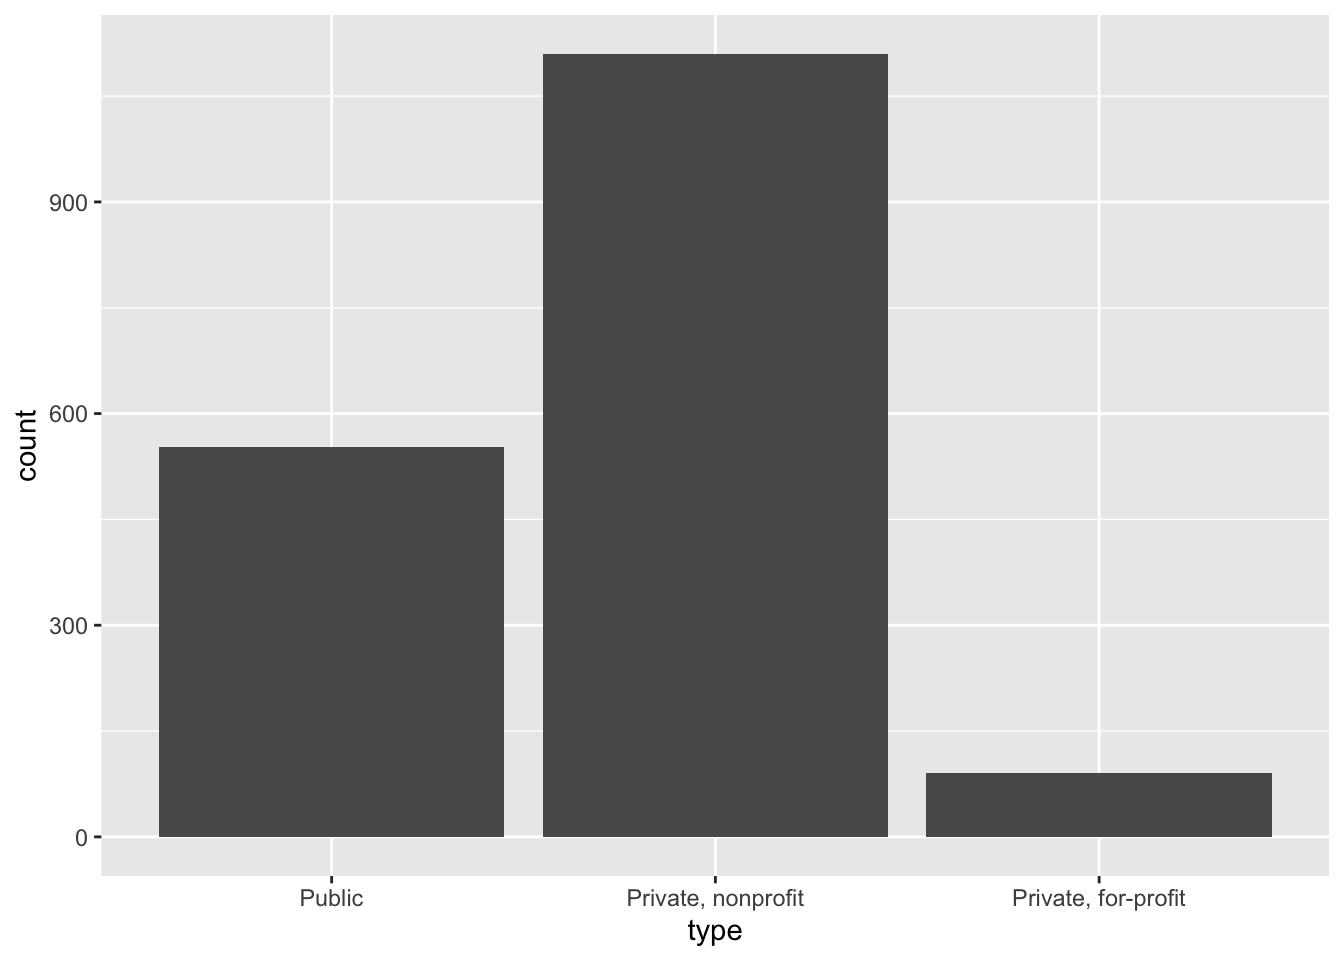
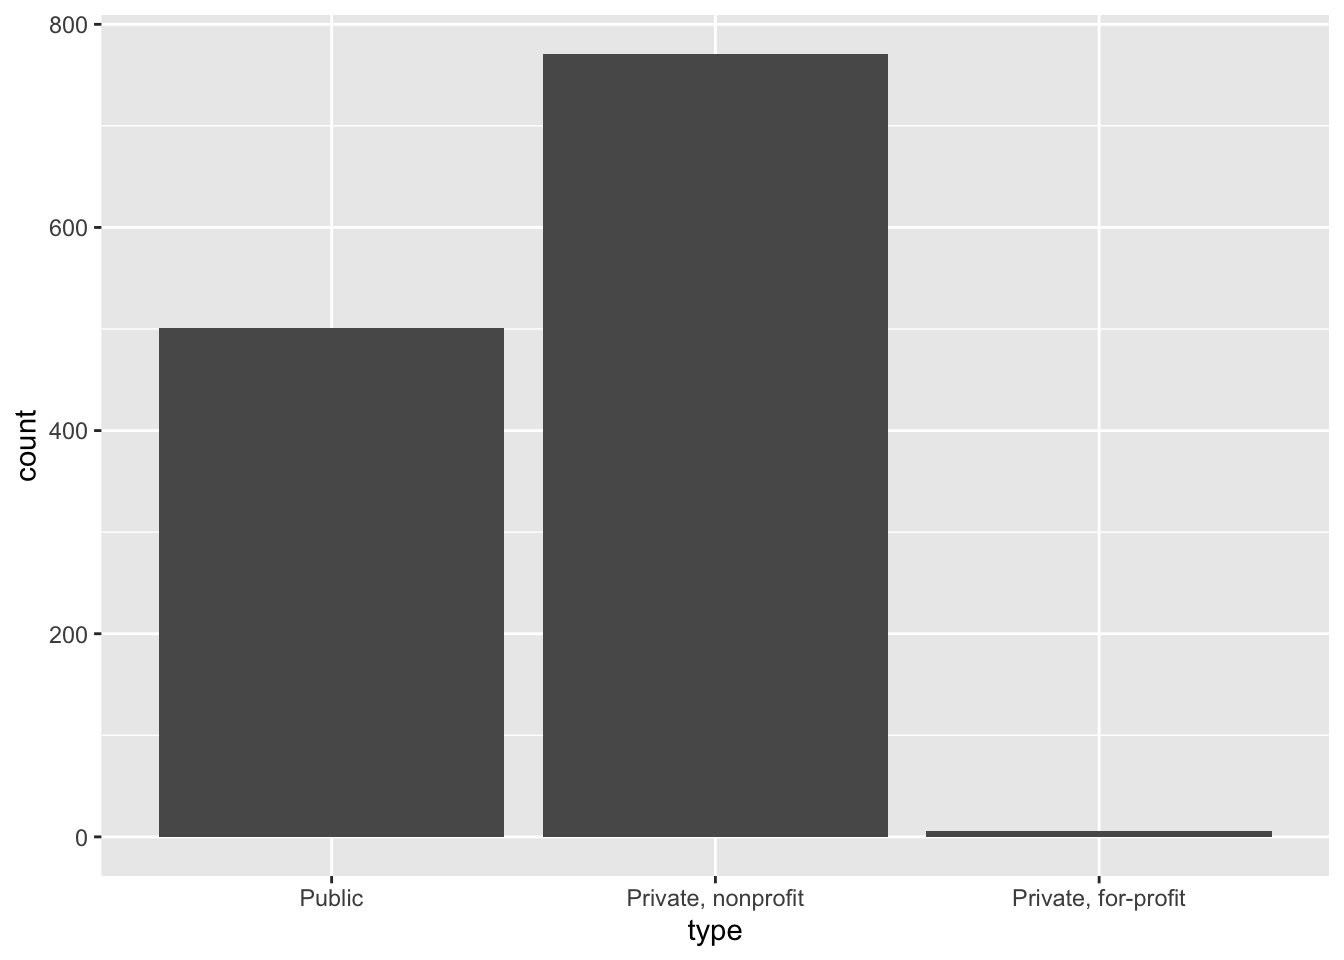
Clarify role of NA values for average SAT exercise in EDA module. Close #306

diff --git a/content/notes/exploratory-data-analysis-practice/index.md b/content/notes/exploratory-data-analysis-practice/index.md
@@ -135,16 +135,31 @@ Now we can see the averages for each college type are based on widely varying sa
 
 
 ```r
-ggplot(
-  data = scorecard,
-  mapping = aes(x = type)
-) +
+# observations with non-NA SAT averages
+scorecard %>%
+  drop_na(satavg) %>%
+  ggplot(
+    mapping = aes(x = type)
+  ) +
   geom_bar()
 ```
 
 <img src="{{< blogdown/postref >}}index_files/figure-html/sat-bar-1.png" width="672" />
 
-There are far fewer private, for-profit colleges than the other categories. A boxplot alone would not reveal this detail, which could be important in future analysis.
+```r
+# what proportion of observations have NA for satavg?
+scorecard %>%
+  group_by(type) %>%
+  summarize(prop = sum(is.na(satavg)) / n()) %>%
+  ggplot(
+    mapping = aes(x = type, y = prop)
+  ) +
+  geom_col()
+```
+
+<img src="{{< blogdown/postref >}}index_files/figure-html/sat-bar-2.png" width="672" />
+
+There are far fewer private, for-profit colleges than the other categories. Furthermore, private, for-profit colleges disproportionately fail to report average SAT scores compared to the other categories (likely these schools do not require SAT scores from applicants). A boxplot alone would not reveal this detail, which could be important in future analysis.
 
 {{< /spoiler >}}
 
@@ -399,28 +414,28 @@ devtools::session_info()
 ##  collate  en_US.UTF-8                 
 ##  ctype    en_US.UTF-8                 
 ##  tz       America/Chicago             
-##  date     2021-09-01                  
+##  date     2022-01-06                  
 ## 
 ## ─ Packages ───────────────────────────────────────────────────────────────────
 ##  package     * version date       lib source        
 ##  assertthat    0.2.1   2019-03-21 [1] CRAN (R 4.1.0)
 ##  backports     1.2.1   2020-12-09 [1] CRAN (R 4.1.0)
-##  blogdown      1.4     2021-07-23 [1] CRAN (R 4.1.0)
+##  blogdown      1.7     2021-12-19 [1] CRAN (R 4.1.0)
 ##  bookdown      0.23    2021-08-13 [1] CRAN (R 4.1.0)
 ##  broom         0.7.9   2021-07-27 [1] CRAN (R 4.1.0)
-##  bslib         0.2.5.1 2021-05-18 [1] CRAN (R 4.1.0)
+##  bslib         0.3.1   2021-10-06 [1] CRAN (R 4.1.0)
 ##  cachem        1.0.6   2021-08-19 [1] CRAN (R 4.1.0)
 ##  callr         3.7.0   2021-04-20 [1] CRAN (R 4.1.0)
 ##  cellranger    1.1.0   2016-07-27 [1] CRAN (R 4.1.0)
-##  cli           3.0.1   2021-07-17 [1] CRAN (R 4.1.0)
+##  cli           3.1.0   2021-10-27 [1] CRAN (R 4.1.0)
 ##  codetools     0.2-18  2020-11-04 [1] CRAN (R 4.1.0)
 ##  colorspace    2.0-2   2021-06-24 [1] CRAN (R 4.1.0)
-##  crayon        1.4.1   2021-02-08 [1] CRAN (R 4.1.0)
+##  crayon        1.4.2   2021-10-29 [1] CRAN (R 4.1.0)
 ##  DBI           1.1.1   2021-01-15 [1] CRAN (R 4.1.0)
 ##  dbplyr        2.1.1   2021-04-06 [1] CRAN (R 4.1.0)
 ##  desc          1.3.0   2021-03-05 [1] CRAN (R 4.1.0)
 ##  devtools      2.4.2   2021-06-07 [1] CRAN (R 4.1.0)
-##  digest        0.6.27  2020-10-24 [1] CRAN (R 4.1.0)
+##  digest        0.6.28  2021-09-23 [1] CRAN (R 4.1.0)
 ##  dplyr       * 1.0.7   2021-06-18 [1] CRAN (R 4.1.0)
 ##  ellipsis      0.3.2   2021-04-29 [1] CRAN (R 4.1.0)
 ##  evaluate      0.14    2019-05-28 [1] CRAN (R 4.1.0)
@@ -429,27 +444,27 @@ devtools::session_info()
 ##  fastmap       1.1.0   2021-01-25 [1] CRAN (R 4.1.0)
 ##  forcats     * 0.5.1   2021-01-27 [1] CRAN (R 4.1.0)
 ##  fs            1.5.0   2020-07-31 [1] CRAN (R 4.1.0)
-##  generics      0.1.0   2020-10-31 [1] CRAN (R 4.1.0)
+##  generics      0.1.1   2021-10-25 [1] CRAN (R 4.1.0)
 ##  ggplot2     * 3.3.5   2021-06-25 [1] CRAN (R 4.1.0)
-##  glue          1.4.2   2020-08-27 [1] CRAN (R 4.1.0)
+##  glue          1.5.0   2021-11-07 [1] CRAN (R 4.1.0)
 ##  gtable        0.3.0   2019-03-25 [1] CRAN (R 4.1.0)
 ##  haven         2.4.3   2021-08-04 [1] CRAN (R 4.1.0)
 ##  here          1.0.1   2020-12-13 [1] CRAN (R 4.1.0)
 ##  highr         0.9     2021-04-16 [1] CRAN (R 4.1.0)
-##  hms           1.1.0   2021-05-17 [1] CRAN (R 4.1.0)
-##  htmltools     0.5.1.1 2021-01-22 [1] CRAN (R 4.1.0)
+##  hms           1.1.1   2021-09-26 [1] CRAN (R 4.1.0)
+##  htmltools     0.5.2   2021-08-25 [1] CRAN (R 4.1.0)
 ##  httr          1.4.2   2020-07-20 [1] CRAN (R 4.1.0)
 ##  jquerylib     0.1.4   2021-04-26 [1] CRAN (R 4.1.0)
 ##  jsonlite      1.7.2   2020-12-09 [1] CRAN (R 4.1.0)
 ##  knitr         1.33    2021-04-24 [1] CRAN (R 4.1.0)
 ##  labeling      0.4.2   2020-10-20 [1] CRAN (R 4.1.0)
-##  lifecycle     1.0.0   2021-02-15 [1] CRAN (R 4.1.0)
+##  lifecycle     1.0.1   2021-09-24 [1] CRAN (R 4.1.0)
 ##  lubridate     1.7.10  2021-02-26 [1] CRAN (R 4.1.0)
 ##  magrittr      2.0.1   2020-11-17 [1] CRAN (R 4.1.0)
 ##  memoise       2.0.0   2021-01-26 [1] CRAN (R 4.1.0)
 ##  modelr        0.1.8   2020-05-19 [1] CRAN (R 4.1.0)
 ##  munsell       0.5.0   2018-06-12 [1] CRAN (R 4.1.0)
-##  pillar        1.6.2   2021-07-29 [1] CRAN (R 4.1.0)
+##  pillar        1.6.4   2021-10-18 [1] CRAN (R 4.1.0)
 ##  pkgbuild      1.2.0   2020-12-15 [1] CRAN (R 4.1.0)
 ##  pkgconfig     2.0.3   2019-09-22 [1] CRAN (R 4.1.0)
 ##  pkgload       1.2.1   2021-04-06 [1] CRAN (R 4.1.0)
@@ -458,25 +473,25 @@ devtools::session_info()
 ##  ps            1.6.0   2021-02-28 [1] CRAN (R 4.1.0)
 ##  purrr       * 0.3.4   2020-04-17 [1] CRAN (R 4.1.0)
 ##  R6            2.5.1   2021-08-19 [1] CRAN (R 4.1.0)
-##  rcfss       * 0.2.1   2020-12-08 [1] local         
+##  rcfss       * 0.2.1   2021-11-15 [1] local         
 ##  Rcpp          1.0.7   2021-07-07 [1] CRAN (R 4.1.0)
-##  readr       * 2.0.1   2021-08-10 [1] CRAN (R 4.1.0)
+##  readr       * 2.0.2   2021-09-27 [1] CRAN (R 4.1.0)
 ##  readxl        1.3.1   2019-03-13 [1] CRAN (R 4.1.0)
 ##  remotes       2.4.0   2021-06-02 [1] CRAN (R 4.1.0)
 ##  reprex        2.0.1   2021-08-05 [1] CRAN (R 4.1.0)
-##  rlang         0.4.11  2021-04-30 [1] CRAN (R 4.1.0)
-##  rmarkdown     2.10    2021-08-06 [1] CRAN (R 4.1.0)
+##  rlang         0.4.12  2021-10-18 [1] CRAN (R 4.1.0)
+##  rmarkdown     2.11    2021-09-14 [1] CRAN (R 4.1.0)
 ##  rprojroot     2.0.2   2020-11-15 [1] CRAN (R 4.1.0)
 ##  rstudioapi    0.13    2020-11-12 [1] CRAN (R 4.1.0)
 ##  rvest         1.0.1   2021-07-26 [1] CRAN (R 4.1.0)
 ##  sass          0.4.0   2021-05-12 [1] CRAN (R 4.1.0)
 ##  scales        1.1.1   2020-05-11 [1] CRAN (R 4.1.0)
 ##  sessioninfo   1.1.1   2018-11-05 [1] CRAN (R 4.1.0)
-##  stringi       1.7.3   2021-07-16 [1] CRAN (R 4.1.0)
+##  stringi       1.7.5   2021-10-04 [1] CRAN (R 4.1.0)
 ##  stringr     * 1.4.0   2019-02-10 [1] CRAN (R 4.1.0)
 ##  testthat      3.0.4   2021-07-01 [1] CRAN (R 4.1.0)
-##  tibble      * 3.1.3   2021-07-23 [1] CRAN (R 4.1.0)
-##  tidyr       * 1.1.3   2021-03-03 [1] CRAN (R 4.1.0)
+##  tibble      * 3.1.6   2021-11-07 [1] CRAN (R 4.1.0)
+##  tidyr       * 1.1.4   2021-09-27 [1] CRAN (R 4.1.0)
 ##  tidyselect    1.1.1   2021-04-30 [1] CRAN (R 4.1.0)
 ##  tidyverse   * 1.3.1   2021-04-15 [1] CRAN (R 4.1.0)
 ##  tzdb          0.1.2   2021-07-20 [1] CRAN (R 4.1.0)
@@ -484,7 +499,7 @@ devtools::session_info()
 ##  utf8          1.2.2   2021-07-24 [1] CRAN (R 4.1.0)
 ##  vctrs         0.3.8   2021-04-29 [1] CRAN (R 4.1.0)
 ##  withr         2.4.2   2021-04-18 [1] CRAN (R 4.1.0)
-##  xfun          0.25    2021-08-06 [1] CRAN (R 4.1.0)
+##  xfun          0.29    2021-12-14 [1] CRAN (R 4.1.0)
 ##  xml2          1.3.2   2020-04-23 [1] CRAN (R 4.1.0)
 ##  yaml          2.2.1   2020-02-01 [1] CRAN (R 4.1.0)
 ## 
